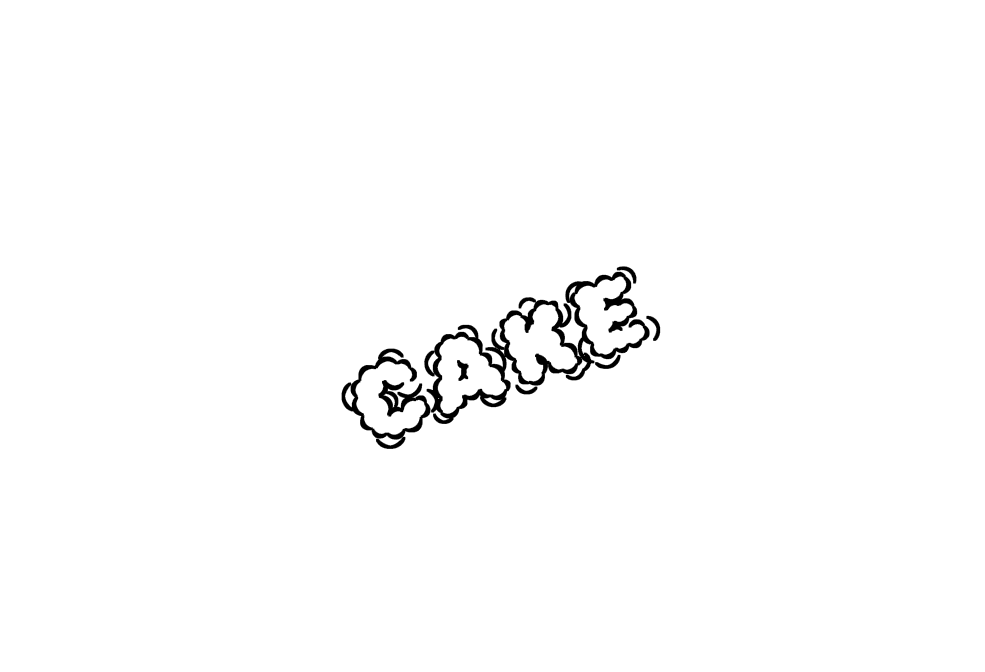
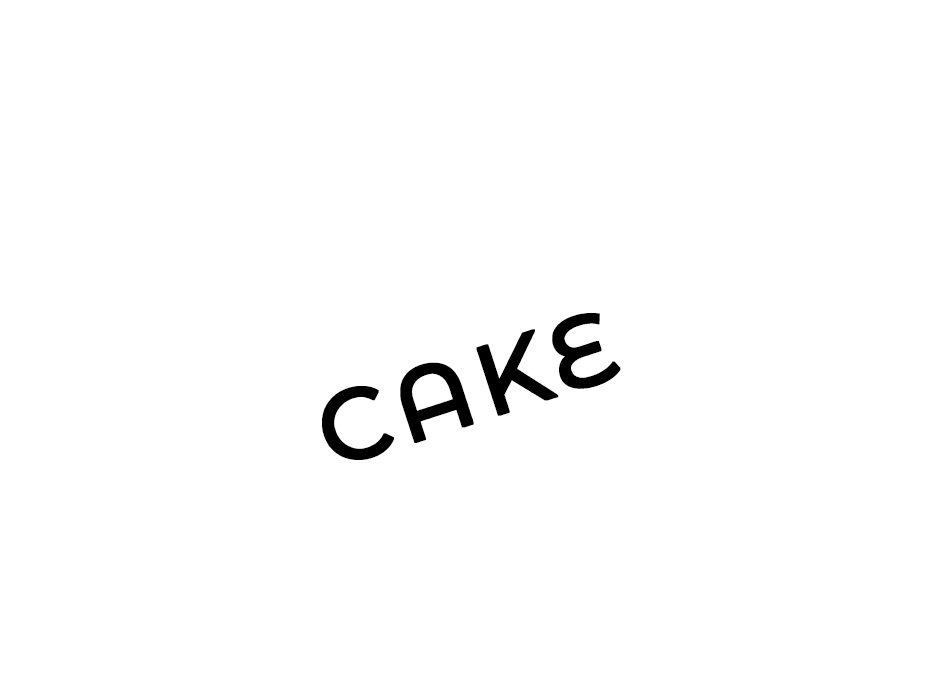
d

Changed region(s): [[0.3404, 0.375, 0.6809, 0.6875]]

diff --git a/index.html b/index.html
@@ -4,36 +4,50 @@
   <title>생일 체크</title>
   <style>
     body {
-      font-family: Arial, sans-serif;
+      font-family: Rubik Puddles, sans-serif;
       text-align: center;
+      background-color: black;
     }
     
     #question {
-      font-size: 24px;
-      margin-top: 100px;
+      font-size: 50px;
+      margin-top: 200px;
+      color: white;
+
+
     }
     
     #options {
       margin-top: 20px;
+      color: balck;
     }
     
     #options button {
-      padding: 10px 20px;
+      padding: 12px 20px;
       margin: 0 10px;
       font-size: 16px;
       cursor: pointer;
+      font-family: Montserrat Alternates, sans-serif;
+      transform: translate(20%, 105%);
+      color:black;
+      font-weight:bold;
+
     }
 
 
   </style>
 </head>
 <body>
+  <link href="https://fonts.googleapis.com/css2?family=Rubik Puddles&display=swap" rel="stylesheet">
+
+  <link href="https://fonts.googleapis.com/css2?family=Montserrat+Alternates&display=swap" rel="stylesheet">
+
   <div id="question">
-    Is it your birthday today?
+    Is&nbsp; it&nbsp; your&nbsp; birthday &nbsp;today?
   </div>
   <div id="options">
-    <button onclick="checkBirthday(true)">Yes</button>
-    <button onclick="checkBirthday(false)">No</button>
+    <button onclick="checkBirthday(true)">YES</button>
+    <button onclick="checkBirthday(false)">NO</button>
   </div>
 
   <script>
